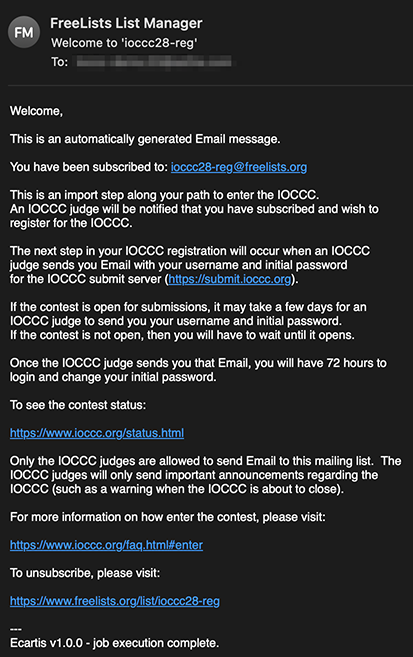
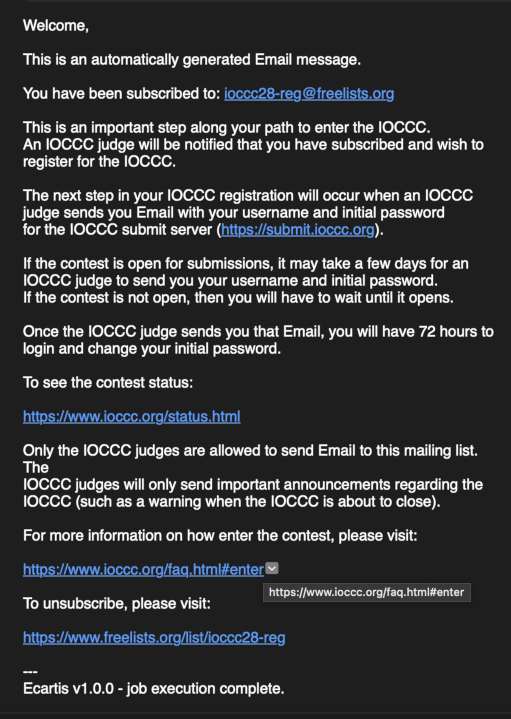
Fixes and updates in next/
Typo/format fixes were made in next/pw-change.html, next/register.html,
next/submit.html.

The screenshot for register step 6 (welcome email) was updated to
reflect a typo I had reported (after it was fixed). The html file still
has to be checked for rendering and that will be done soon.

diff --git a/next/pw-change.html b/next/pw-change.html
@@ -431,9 +431,9 @@ server</a>.</p>
 <p><strong>IMPORTANT NOTE</strong>: You must change your password <strong>WITHIN 72 HOURS</strong>
 from when one of the <a href="../judges.html">IOCCC judges</a> sent that email.</p>
 <p><strong>NOTE</strong>: The <a href="https://submit.ioccc.org">IOCCC submit server</a>
-is only ready for submissions <strong>ONLY WHEN THE CONTEST IS <a href="../status.html#open">open</a></strong>.</p>
-<p>See <a href="../status.html">current status of the IOCCC</a> for details on the contest status.
-<strong>IMPORTANT NOTE</strong>: When the contest is <a href="../status.html#closed">closed</a>, the
+is ready for submissions <strong>ONLY WHEN THE CONTEST IS <a href="../status.html#open">open</a></strong>.
+See <a href="../status.html">current status of the IOCCC</a> for details on the contest status.</p>
+<p><strong>IMPORTANT NOTE</strong>: When the contest is <a href="../status.html#closed">closed</a>, the
 <a href="https://submit.ioccc.org">IOCCC submit server</a>
 may be offline and unreachable as a web site.</p>
 <p>To login and change your password, open <a href="https://submit.ioccc.org">https://submit.ioccc.org</a>

diff --git a/next/register.html b/next/register.html
@@ -527,7 +527,7 @@ you <strong>CANNOT REGISTER</strong> as there is no contest for which you can re
 for news about the next IOCCC as you may register when the contest is <a href="../status.html#pending">pending</a>
 or <a href="../status.html#open">open</a>.</p>
 <h3 id="when-the-ioccc-status-is-pending">When the IOCCC status is <em>pending</em></h3>
-<p>While the contest is <strong><a href="../status.html#pending">PEDING</a></strong>,
+<p>While the contest is <strong><a href="../status.html#pending">PENDING</a></strong>,
 you may **register for contest*, however you will <strong>NOT</strong>
 receive your own email message containing your <a href="https:/submit.ioccc.org">IOCCC submit server</a>
 <strong>Username and Initial Password until the IOCCC is <a href="../status.html#open">open</a></strong>.</p>

diff --git a/next/submit.html b/next/submit.html
@@ -477,7 +477,7 @@ tarball listing)</li>
 <p>After the submission deadline is reached, you can log in to check the status of
 your submissions. Here is what it will look like when the judges have verified
 that your tarball / submission has been validated (NOT judged), by <code>txzchk(1)</code>
-and <code>chkentry(1)</code>.:</p>
+and <code>chkentry(1)</code>:</p>
 <p><img src="../png/submit-server-status-updated.png"
  alt="submit server status updated"
  width=717 height=217></p>

diff --git a/next/pw-change.md b/next/pw-change.md
@@ -8,9 +8,9 @@ server](https:/submit.ioccc.org).
 from when one of the [IOCCC judges](../judges.html) sent that email.
 
 **NOTE**: The [IOCCC submit server](https://submit.ioccc.org)
-is only ready for submissions **ONLY WHEN THE CONTEST IS [open](../status.html#open)**.
-
+is ready for submissions **ONLY WHEN THE CONTEST IS [open](../status.html#open)**.
 See [current status of the IOCCC](../status.html) for details on the contest status.
+
 **IMPORTANT NOTE**: When the contest is [closed](../status.html#closed), the
 [IOCCC submit server](https://submit.ioccc.org)
 may be offline and unreachable as a web site.

diff --git a/next/register.md b/next/register.md
@@ -155,7 +155,7 @@ or [open](../status.html#open).
 
 ### When the IOCCC status is _pending_
 
-While the contest is **[PEDING](../status.html#pending)**,
+While the contest is **[PENDING](../status.html#pending)**,
 you may **register for contest*, however you will **NOT**
 receive your own email message containing your [IOCCC submit server](https:/submit.ioccc.org)
 **Username and Initial Password until the IOCCC is [open](../status.html#open)**.

diff --git a/next/submit.md b/next/submit.md
@@ -68,7 +68,7 @@ Now if you're done, log out.
 After the submission deadline is reached, you can log in to check the status of
 your submissions. Here is what it will look like when the judges have verified
 that your tarball / submission has been validated (NOT judged), by `txzchk(1)`
-and `chkentry(1)`.:
+and `chkentry(1)`:
 
 <img src="../png/submit-server-status-updated.png"
  alt="submit server status updated"
